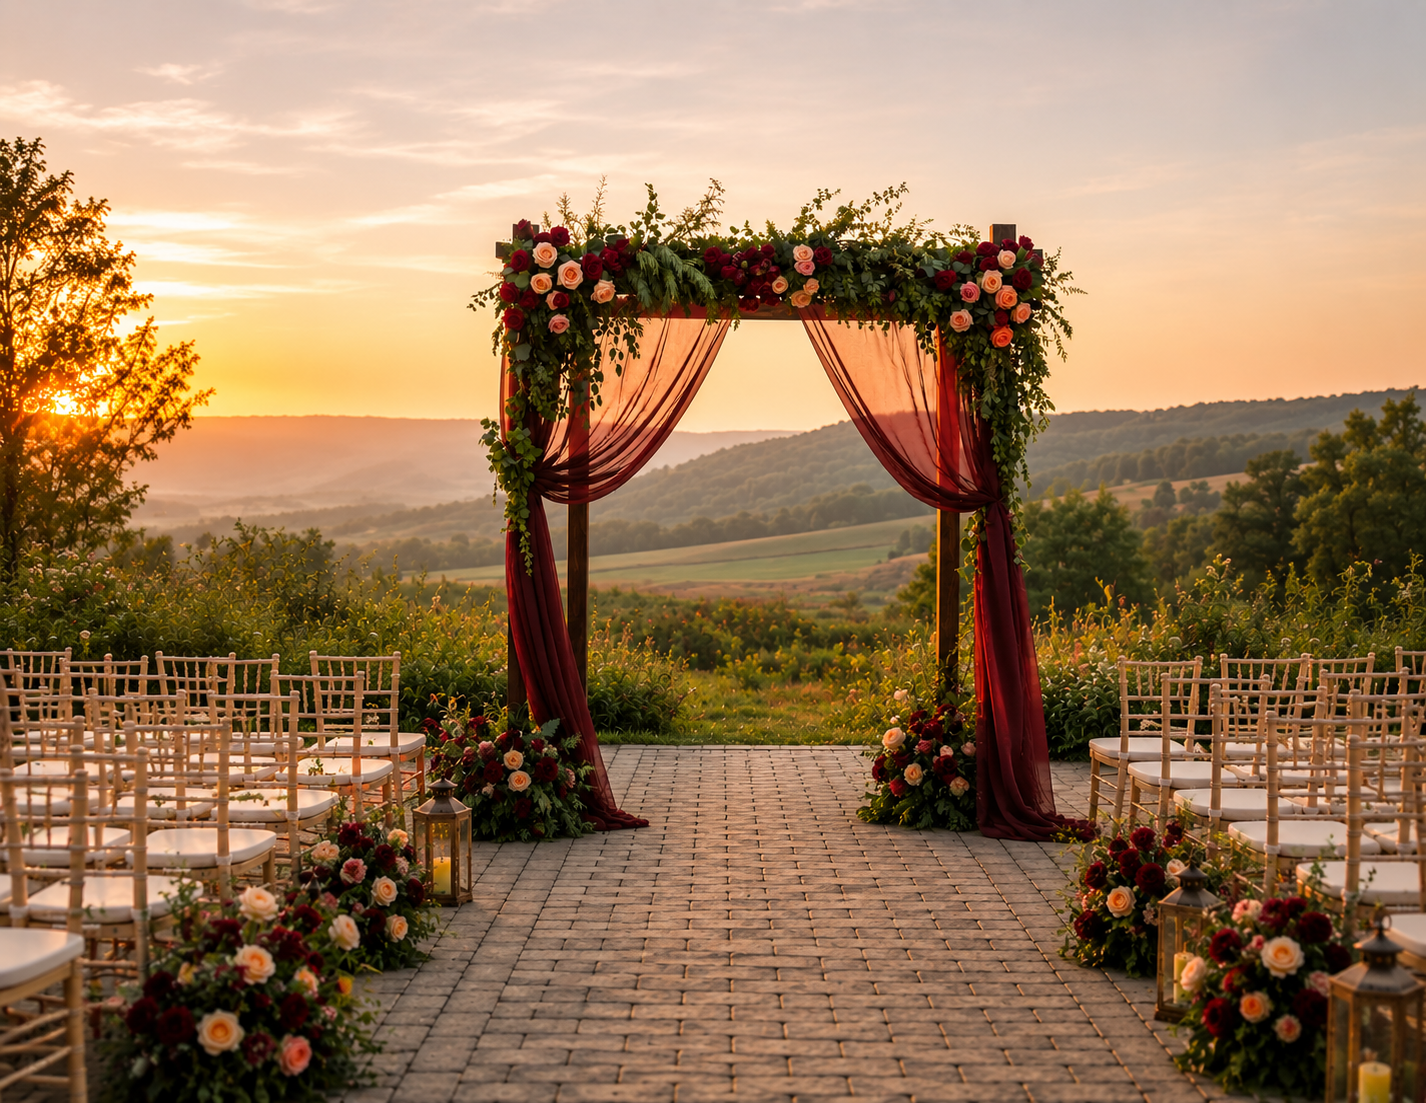
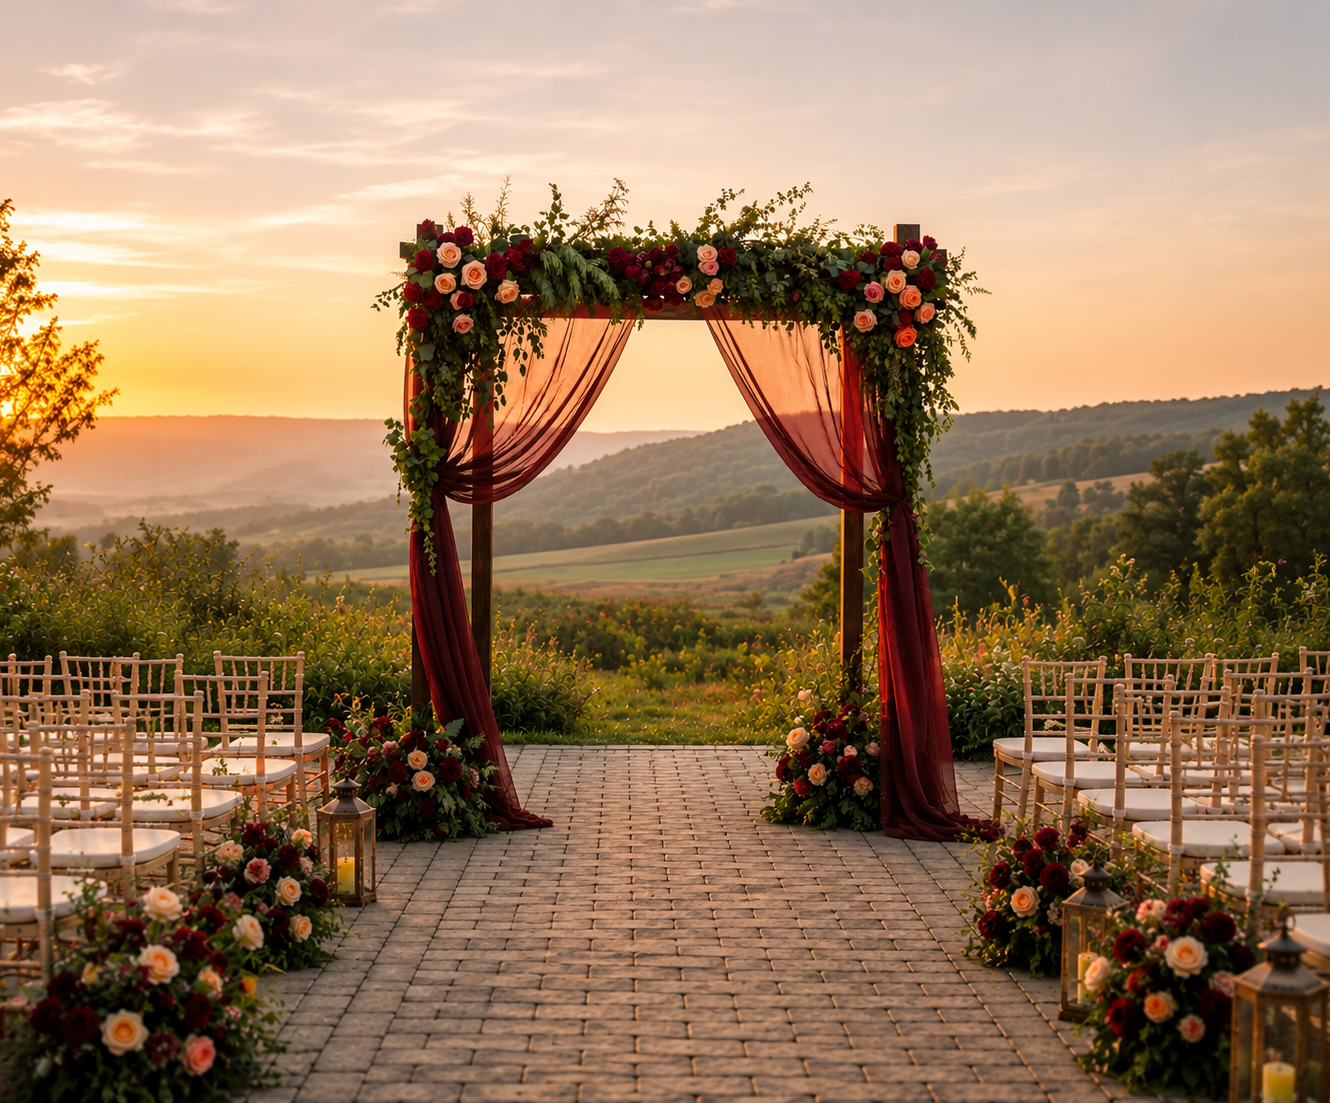
Update background photo and login position tweaks

diff --git a/frontend/src/pages/Login.tsx b/frontend/src/pages/Login.tsx
@@ -36,10 +36,10 @@ export default function Login() {
   return (
     <div
       className="min-h-screen flex items-center justify-center"
-      style={{ backgroundImage: 'url(/WedBG.png)', backgroundSize: 'cover', backgroundPosition: 'center' }}
+      style={{ backgroundImage: 'url(/WedBG.png)', backgroundSize: 'cover', backgroundPosition: 'center 40%' }}
     >
       <div className="absolute inset-0 bg-black/30" />
-      <div className="relative w-full max-w-sm mx-4">
+      <div className="relative w-full max-w-xs mx-4">
         <div className="text-center mb-6">
           <h1 className="text-5xl text-white drop-shadow-lg" style={{ fontFamily: 'Georgia, "Times New Roman", serif', letterSpacing: '0.05em' }}>
             Wedding Planner
@@ -47,7 +47,7 @@ export default function Login() {
           <p className="text-white/80 text-sm mt-2 tracking-widest uppercase">Plan your perfect day</p>
         </div>
 
-        <div className="bg-white/20 backdrop-blur-md rounded-xl shadow-lg border border-white/30 p-6">
+        <div className="bg-white/20 backdrop-blur-md rounded-xl shadow-lg border border-white/30 p-5">
         <h1 className="text-xl font-bold text-white mb-1">Welcome back</h1>
         <p className="text-white/70 text-sm mb-5">Sign in to your account</p>
 
